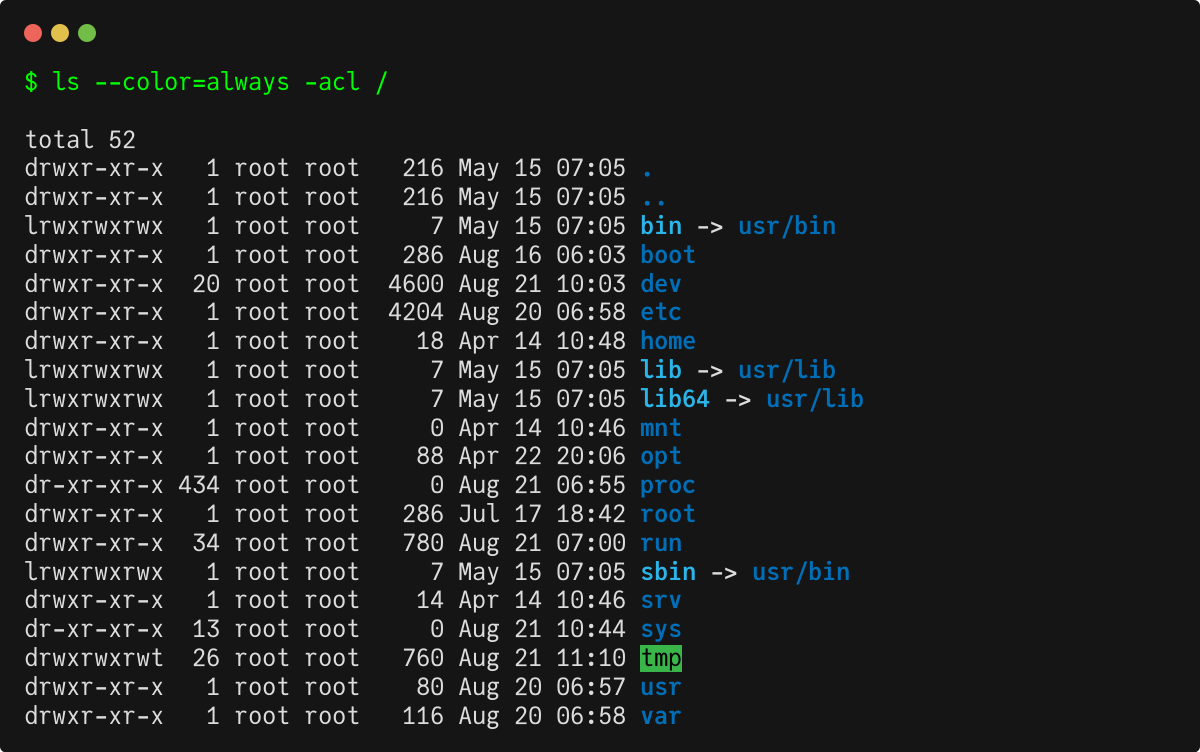
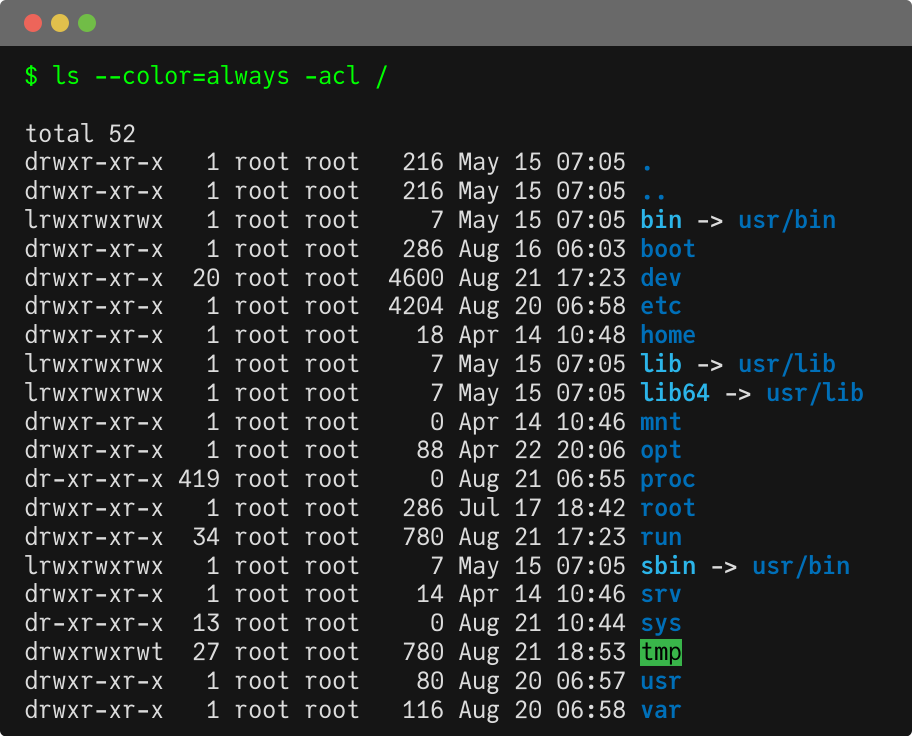
feat: Medium gray title bar. (#2)

diff --git a/stage/stage.go b/stage/stage.go
@@ -19,6 +19,7 @@ import (
 const (
 	BACKGROUND_COLOR = "#151515"
 	FOREGROUND_COLOR = "#DCDCDC"
+	TITLEBAR_COLOR   = "#696969"
 	RED              = "#ED655A"
 	YELLOW           = "#E1C04C"
 	GREEN            = "#71BD47"
@@ -37,6 +38,7 @@ type Stage struct {
 
 	foregroundColor string
 	backgroundColor string
+	titlebarColor   string
 	lineSpacing     float64
 	tabSpaces       int
 }
@@ -61,6 +63,7 @@ func New(magnification int, cols int) (Stage, error) {
 
 		foregroundColor: FOREGROUND_COLOR,
 		backgroundColor: BACKGROUND_COLOR,
+		titlebarColor:   TITLEBAR_COLOR,
 
 		columns: cols,
 
@@ -175,26 +178,34 @@ func (s *Stage) GetImage(contentWidth float64, contentHeight float64) image.Imag
 	var (
 		f              = func(v float64) float64 { return s.factor * v }
 		paddingX       = s.padding
-		paddingY       = s.padding
+		paddingY       = s.padding - f(10)
 		corner         = f(6)
 		dotsRadius     = f(9)
 		dotsDistance   = dotsRadius * 3
-		titleBarHeight = dotsRadius*2 + paddingY
+		titleBarHeight = dotsRadius*2 + paddingY*2
 	)
-	contentWidth = math.Max(contentWidth, 3*dotsDistance+3*dotsRadius) // Make sure the output window is big enough
+	contentWidth = math.Max(contentWidth, 3*dotsDistance+3*dotsRadius) // make sure the output window is big enough
 
 	width := contentWidth + 2*paddingX
 	height := contentHeight + 2*paddingY + titleBarHeight
 	dc := gg.NewContext(int(width), int(height))
 
 	// Rounded rectangle to produce an impression of a window
-	dc.DrawRoundedRectangle(0, 0, width, height, corner)
+	dc.DrawRoundedRectangle(0, corner, width, height-corner, corner) // lowered by the corner to hide terminal artifacts from behind
 	dc.SetHexColor(s.backgroundColor)
+	dc.Fill()
+
+	// Semi rectangle to produce an impression of a titlebar
+	dc.DrawRoundedRectangle(0, 0, width, titleBarHeight, corner)
+	dc.SetHexColor(s.titlebarColor)
+	dc.Fill()
+	dc.DrawRectangle(0, corner, width, titleBarHeight-corner) // making bottom flat
+	dc.SetHexColor(s.titlebarColor)
 	dc.Fill()
 
 	// 3 colored dots mimicking menu bar
 	for i, color := range []string{RED, YELLOW, GREEN} {
-		dc.DrawCircle(paddingX+dotsRadius+float64(i)*dotsDistance, paddingY+dotsRadius, dotsRadius)
+		dc.DrawCircle(paddingX+dotsRadius+float64(i)*dotsDistance, titleBarHeight/2, dotsRadius)
 		dc.SetHexColor(color)
 		dc.Fill()
 	}
